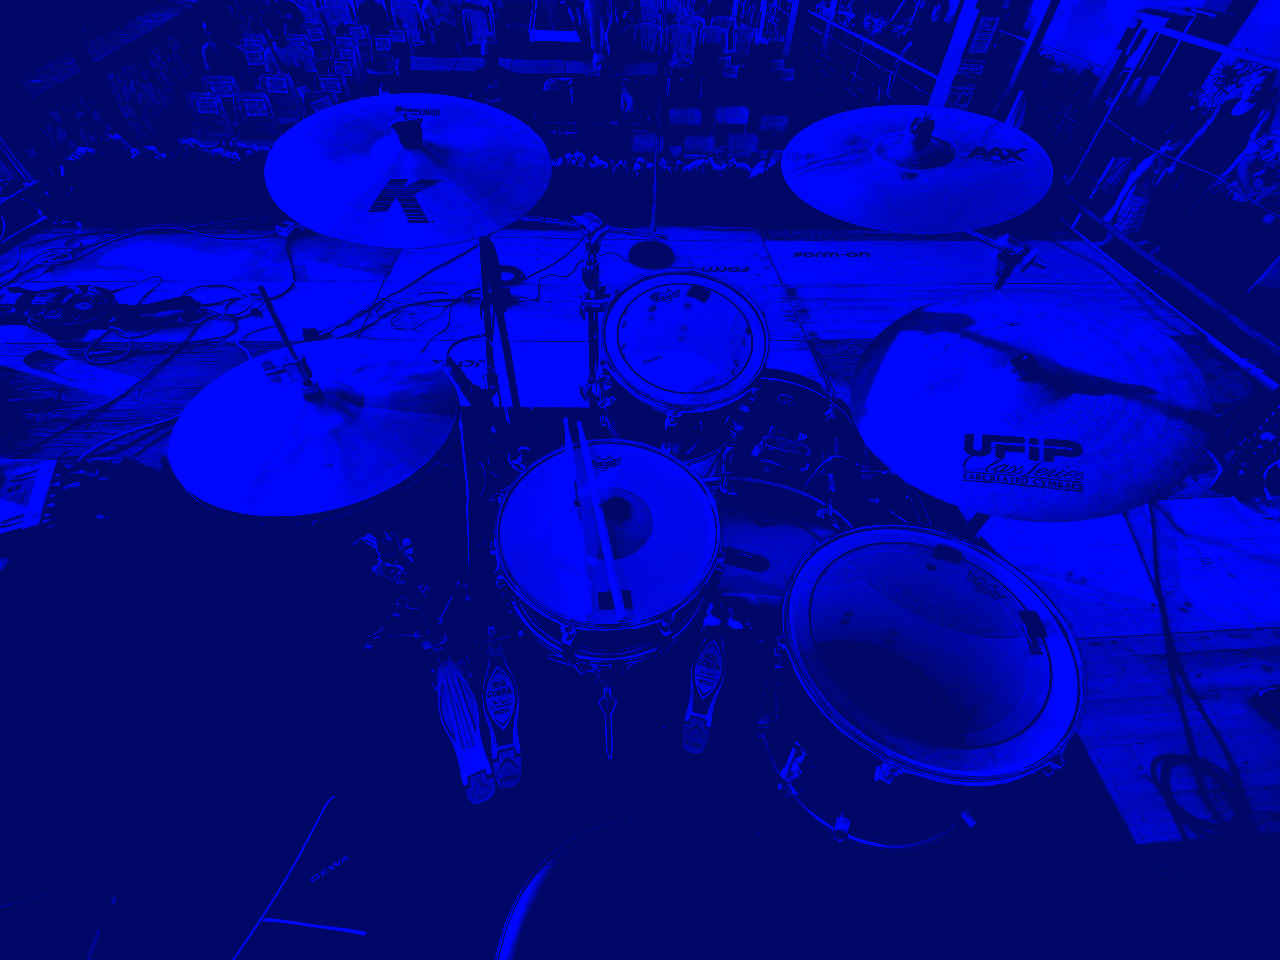
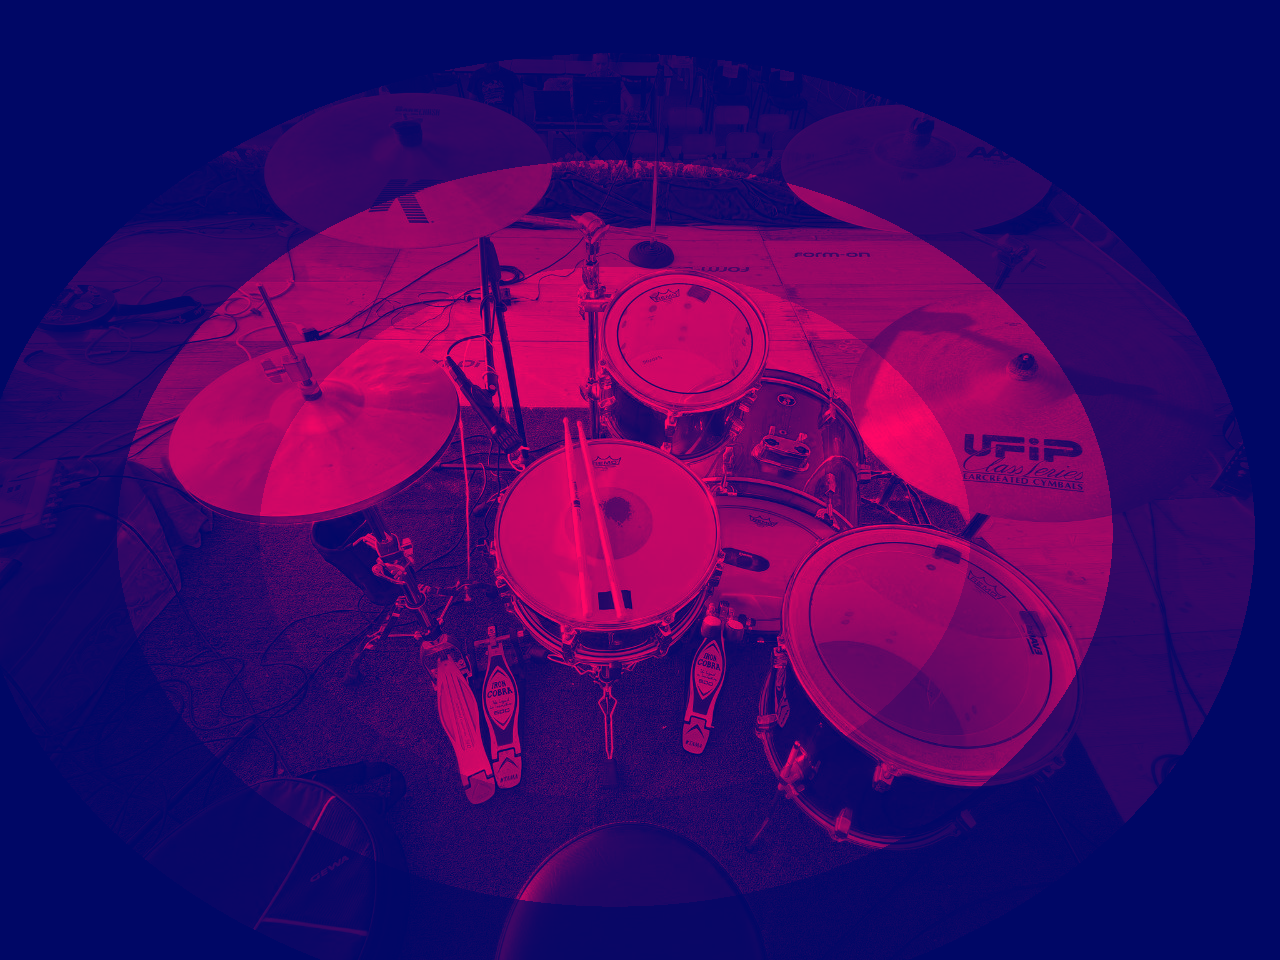
Added another image

diff --git a/src/projects/img_20240714_1958.rs b/src/projects/img_20240714_1958.rs
@@ -1,29 +1,67 @@
-use crate::folding::get_path_in;
-use crate::int::chunking_layer::split_layer_in_chunks_and_save_parts_and_combined;
+use crate::folding::get_path_out;
 use crate::int::int_color::rgb_to_color;
-use crate::int::int_layer::{
-    create_int_filtered_layer, load_int_file_image_layer_box, IntAbsLayer,
-};
-use color_manipulator_rust::{add_list, color, filter_scalar_and_stretch, get_r};
+use crate::int::int_layer::{create_int_filtered_layer, load_int_file_image_layer_box};
+use color_manipulator_rust::{add_list, color, get_distance, get_r, POS, RGB};
+
+fn cell_shading(scalar: f32, num_shades: usize) -> f32 {
+    let num_shades_f32 = (num_shades - 1) as f32;
+    scale_on_shade_excl(scalar, num_shades) as f32 / num_shades_f32
+}
+fn scale_on_shade_excl(scalar: f32, num_shades: usize) -> usize {
+    // Output: [0, num_shades)
+    let result = f32::round(scalar / (1.0 / num_shades as f32)) as usize;
+    if result >= num_shades {
+        num_shades - 1
+    } else {
+        result
+    }
+}
+
+fn grayscale(rgb: RGB, strength_scalar: f32) -> RGB {
+    let mean = (rgb.r + rgb.g + rgb.b) / 3.0;
+    let dist_r = rgb.r - mean;
+    let dist_g = rgb.g - mean;
+    let dist_b = rgb.b - mean;
+    color(
+        // R
+        mean + dist_r * (1.0 - strength_scalar),
+        // G
+        mean + dist_g * (1.0 - strength_scalar),
+        // B
+        mean + dist_b * (1.0 - strength_scalar),
+    )
+}
+
+fn set_boundaries(scalar: f32) -> f32 {
+    if scalar > 1.0 {
+        1.0
+    } else if scalar < 0.0 {
+        0.0
+    } else {
+        scalar
+    }
+}
 
 pub fn img_20240714_1958() {
-    let filename = "20240714_1958.png";
+    create_int_filtered_layer(
+        load_int_file_image_layer_box("./input/20240714_1958.png"),
+        |c, p, width, height| {
+            let c = c.to_rgb();
+            let p = p.to_pos(width, height);
 
-    let filtered_layer = create_int_filtered_layer(
-        load_int_file_image_layer_box(&get_path_in(filename)),
-        |c, p| {
-            let rgb = c.to_rgb();
+            let center = POS { x: 0.48, y: 0.555 };
+            let closer_from_center = set_boundaries(1.0 - get_distance(p, center) * 1.8);
+            let shaded_value_gradient = cell_shading(closer_from_center, 5);
+
             return rgb_to_color(add_list(&[
                 Some(color(0.0, 0.03, 0.4)),
                 Some(color(
+                    get_r(c) * cell_shading(shaded_value_gradient, 5),
                     0.0,
                     0.0,
-                    filter_scalar_and_stretch(get_r(rgb), 0.5, 0.8) * 0.6,
                 )),
             ]));
         },
-    );
-    let abs_layer: &dyn IntAbsLayer = &filtered_layer;
-    // abs_layer.save(&get_path_out(filename));
-    split_layer_in_chunks_and_save_parts_and_combined(abs_layer, &filename, 8);
+    )
+    .save(get_path_out("20240714_1958.png"));
 }

diff --git a/src/main.rs b/src/main.rs
@@ -1,4 +1,4 @@
-use crate::projects::img_20230301_225057::img_20230301_225057;
+use crate::projects::img_20240714_1958::img_20240714_1958;
 
 mod coord;
 mod folding;
@@ -10,13 +10,11 @@ fn main() {
     /*
     img_20230226_201501();
     img_20230301_224920_two_images();
-    */
     img_20230301_225057();
-    /*
     img_20231002_103537_three_images();
     img_20241009_161110();
     */
-    // img_20240714_1958();
+    img_20240714_1958();
 
     // img_20250201_0220();
     // img_diffs_create();

diff --git a/src/coord.rs b/src/coord.rs
@@ -1,4 +1,4 @@
-use color_manipulator_rust::RGB;
+use color_manipulator_rust::{POS, RGB};
 use image::{ImageBuffer, Rgb};
 
 // Coord
@@ -6,6 +6,14 @@ use image::{ImageBuffer, Rgb};
 pub struct Coord {
     pub x: usize,
     pub y: usize,
+}
+impl Coord {
+    pub fn to_pos(&self, width: usize, height: usize) -> POS {
+        POS {
+            x: self.x as f32 / width as f32,
+            y: self.y as f32 / height as f32,
+        }
+    }
 }
 #[derive(Clone, Copy, Debug)]
 pub struct CoordSquare {
